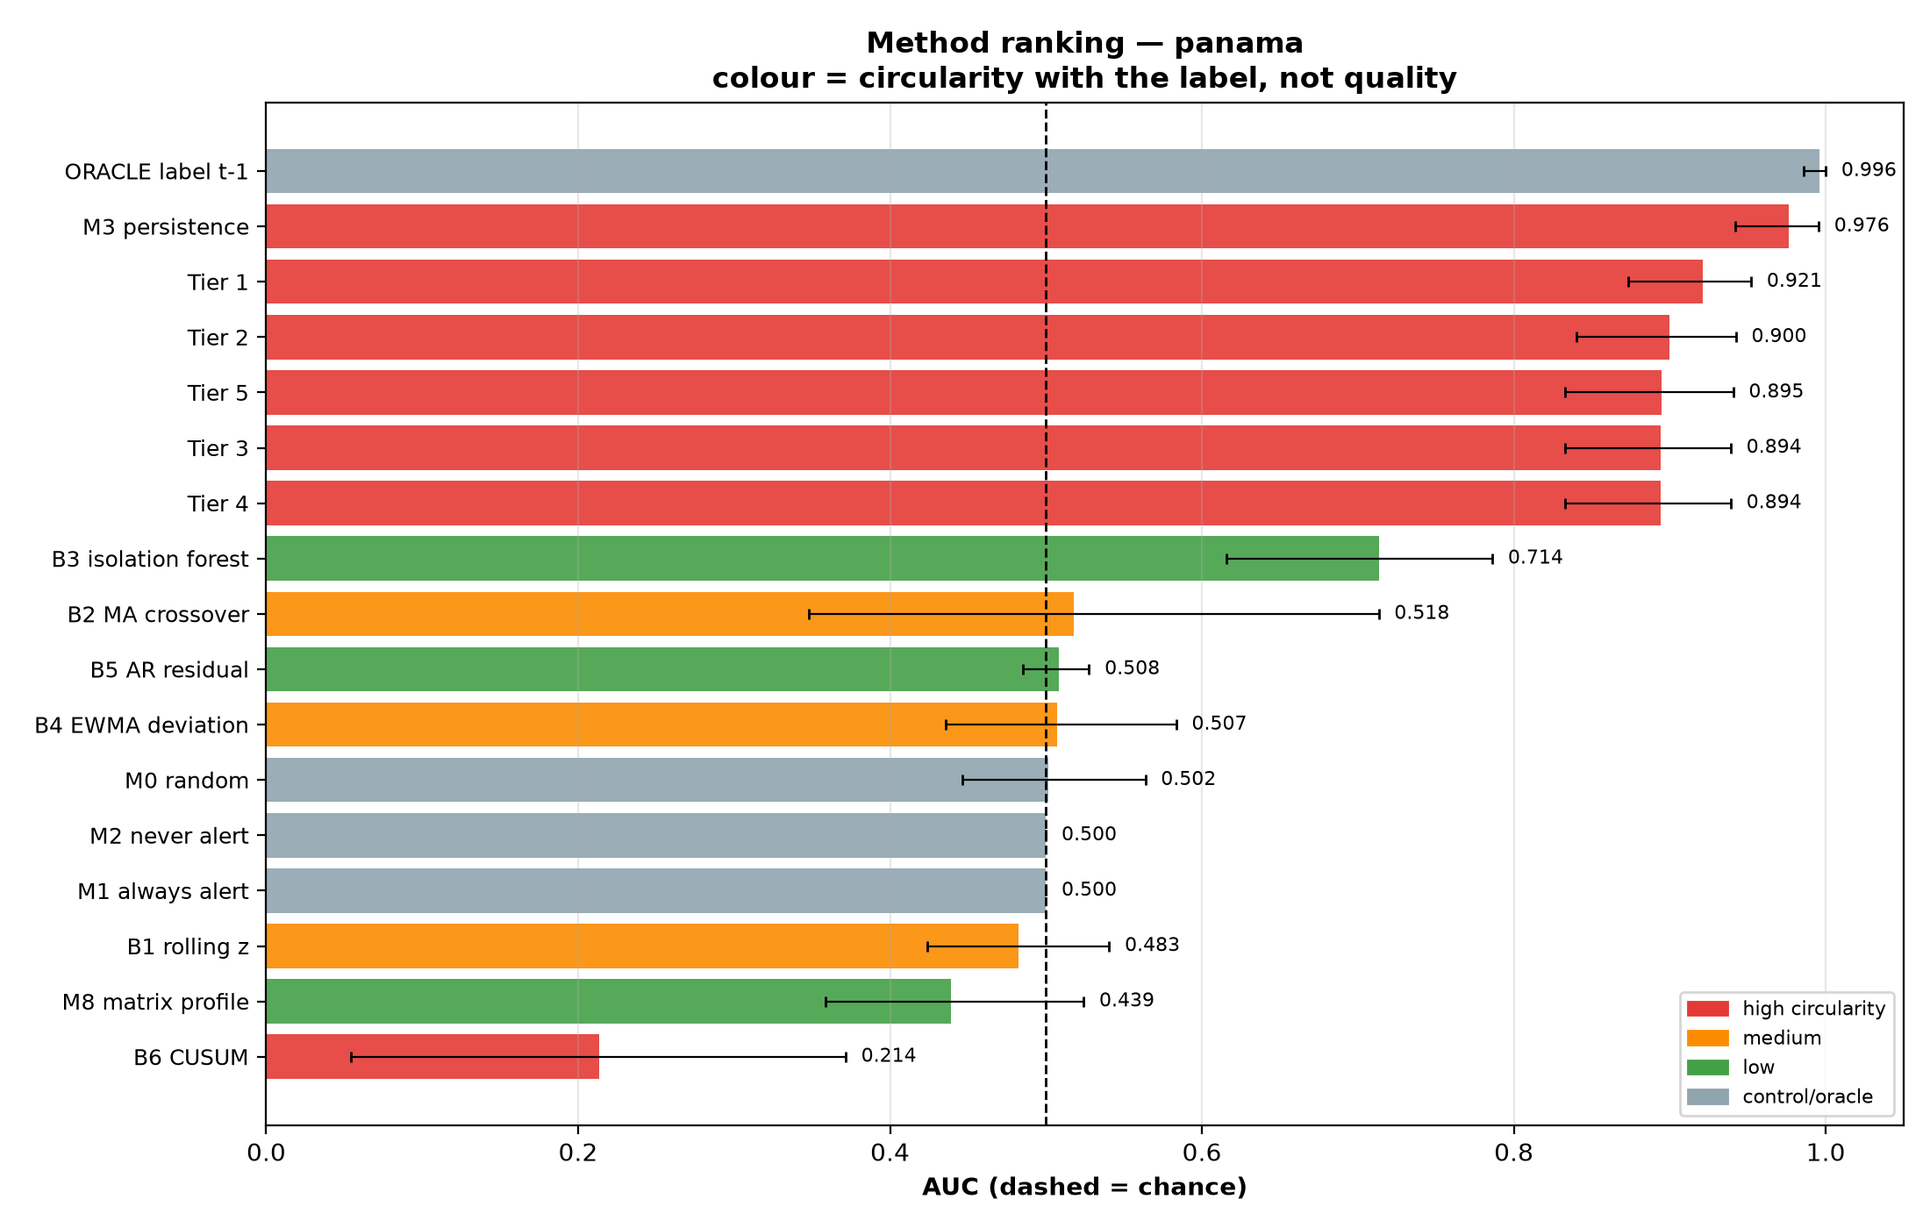
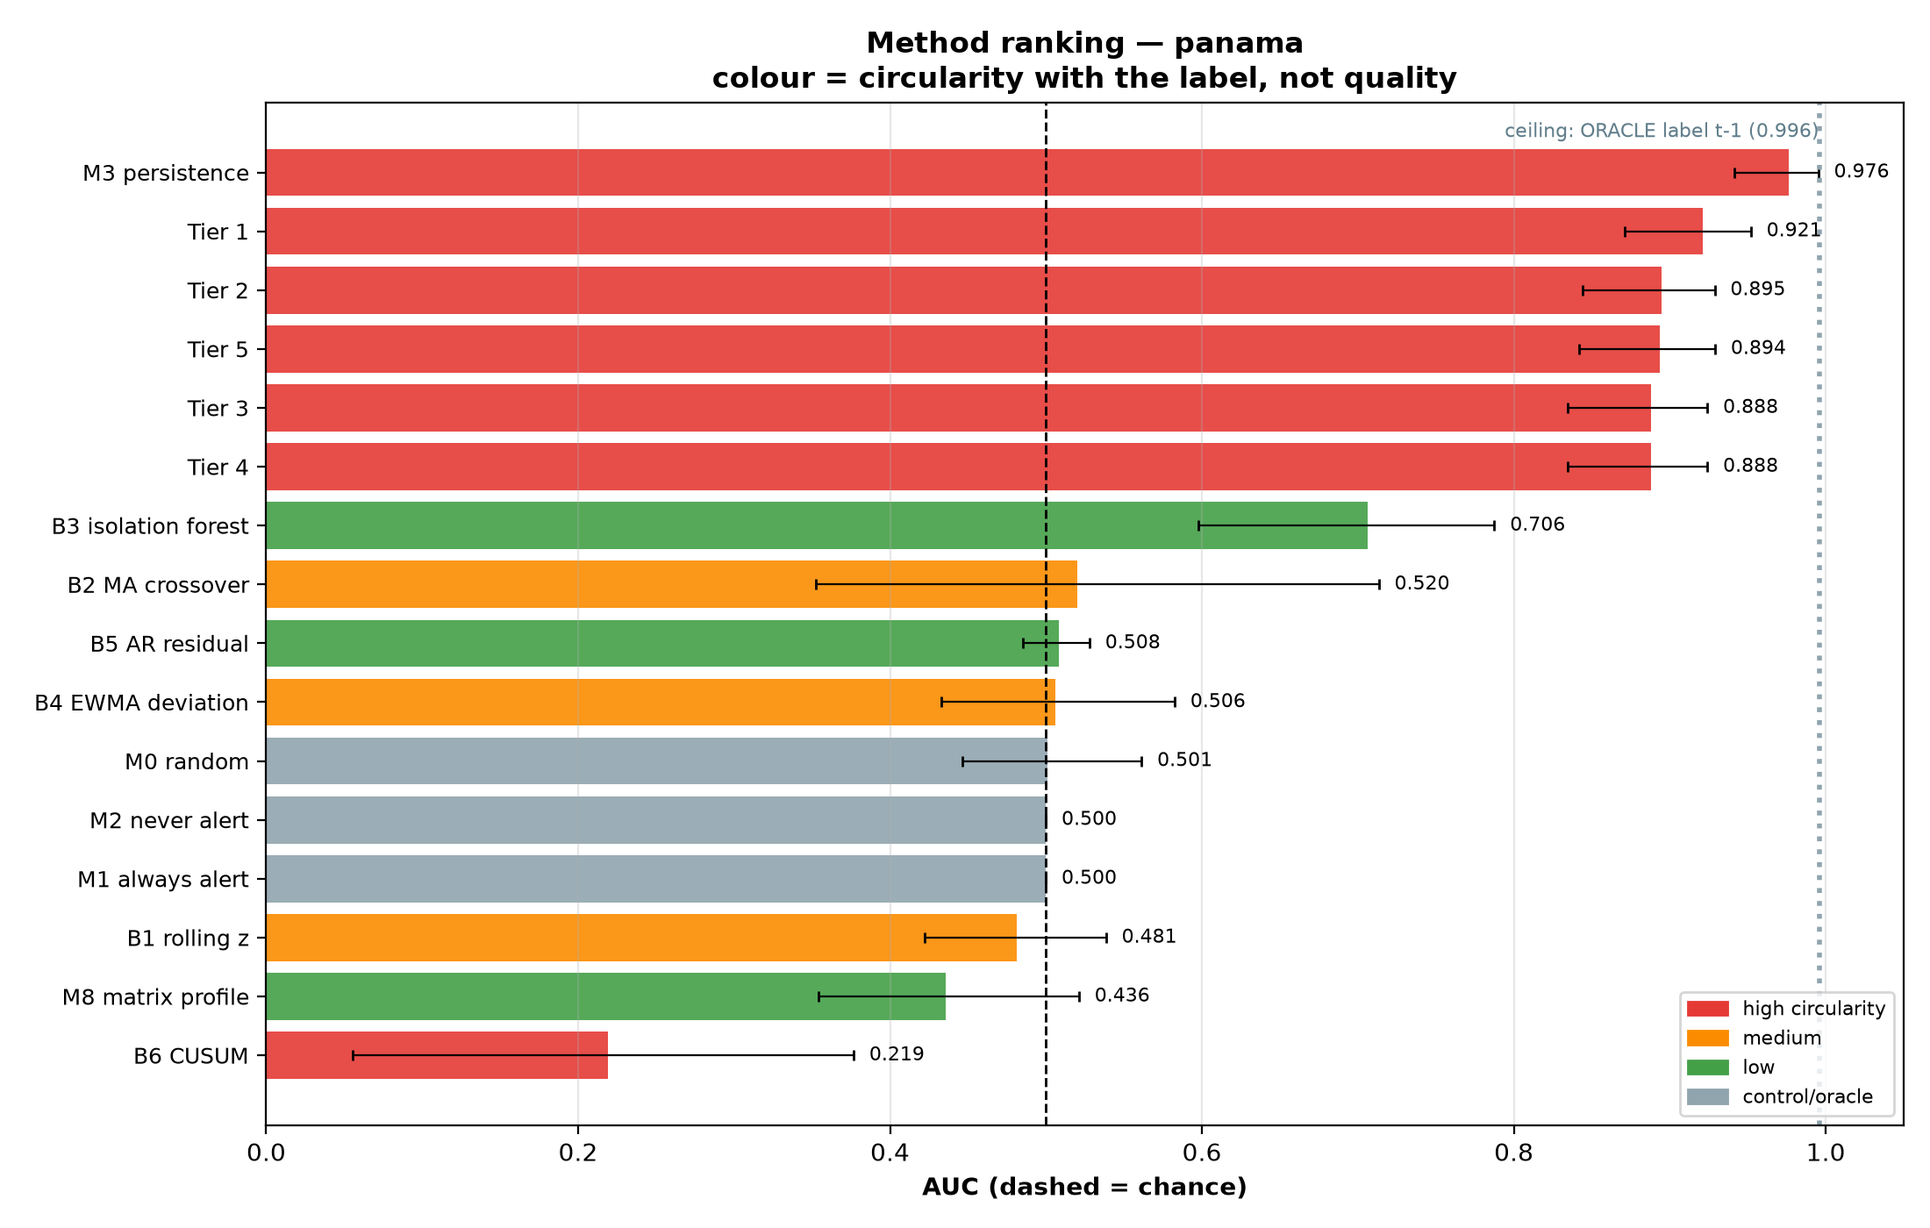
results: final rerun on rebuilt frames (masked outage, first-release FRED)
Frames rebuilt region by region with build_eval_dataset.py --force
(f5cac73). Manifest checks, all four regions:
- rows 2518 (Panama 2516), from 2019-01-01; no domain missing; 18 features
- positive days unchanged: Hormuz 159, Bab el-Mandeb 244, Panama 149,
  Malacca 0
- gap_fill: no cells filled (every domain arrives on a full daily grid)
- market_source: first-release dating; median lags Brent 6 d, PPI 42 d,
  TSI 72 d
- 20 masked news days (18 in test: 2025-06-14..07-01); news NaN exactly
  on those days, no other NaN
- news CSV sha256 unchanged (341249f2, c0bd0898, ba41a0f6, e437e2c9)
- frames now end 2025-11-22 (ACLED one-year delay moved a day); the test
  window still ends 2025-11-21 (settings.yaml)

Results (test 2023-07-01..2025-11-21, 857 scored days, 18 masked):
- Tier 1 is the best tier everywhere: Bab el-Mandeb 0.748 [0.675,
  0.802], Hormuz 0.556 [0.480, 0.624], Panama 0.921 [0.871, 0.952].
- Paired dAUC vs Tier 1: 11 of 12 tier comparisons clearly below 0,
  none above; Hormuz Tier 2 is inconclusive (-0.058 [-0.140, +0.002]).
- Split sensitivity: Panama and Hormuz Tier 1 stable within 0.01;
  Bab el-Mandeb Tier 1 0.732 / 0.748 / 0.471 at the three split dates.
- Ceiling (ORACLE): 0.997 / 0.987 / 0.996.
- Malacca mean alert rate: tiers 29%, real baselines 10%.
vs commit 2: tiers within 0.013 AUC; Hormuz B7 0.971 -> 0.939 and
B8 0.684 -> 0.648 (market features now publication-dated).

Outputs only, no code. The comparison was not run on real data before
[…]

Changed region(s): [[0.0309, 0.0921, 0.9891, 0.8907]]

diff --git a/eval/COMPARISON_REPORT.md b/eval/COMPARISON_REPORT.md
@@ -10,77 +10,86 @@ All figures are measured on a held-out window: 2023-07-01 to 2025-11-21, the sam
 
 | method | kind | AUC [95% CI] | F1 | alert rate |
 |---|---|---|---|---|
-| ORACLE label t-1 | oracle | 0.997 [0.991, 1.000] | 0.996 | 0.28 |
-| M3 persistence | unsupervised | 0.965 [0.919, 0.996] | 0.766 | 0.41 |
-| Tier 1 | multi-agent | 0.746 [0.673, 0.799] | 0.510 | 0.79 |
-| Tier 2 | multi-agent | 0.643 [0.562, 0.712] | 0.469 | 0.58 |
-| B2 MA crossover | unsupervised | 0.585 [0.488, 0.699] | 0.368 | 0.21 |
-| B3 isolation forest | unsupervised | 0.566 [0.451, 0.668] | 0.422 | 0.56 |
-| B4 EWMA deviation | unsupervised | 0.542 [0.503, 0.590] | 0.254 | 0.19 |
-| B1 rolling z | unsupervised | 0.524 [0.492, 0.557] | 0.132 | 0.10 |
-| B5 AR residual | unsupervised | 0.509 [0.493, 0.522] | 0.066 | 0.07 |
+| M3 persistence | unsupervised | 0.966 [0.920, 0.996] | 0.778 | 0.41 |
+| Tier 1 | multi-agent | 0.748 [0.675, 0.802] | 0.517 | 0.79 |
+| Tier 2 | multi-agent | 0.640 [0.529, 0.717] | 0.477 | 0.57 |
+| B2 MA crossover | unsupervised | 0.595 [0.499, 0.715] | 0.380 | 0.20 |
+| B3 isolation forest | unsupervised | 0.554 [0.450, 0.638] | 0.426 | 0.49 |
+| B4 EWMA deviation | unsupervised | 0.544 [0.505, 0.594] | 0.258 | 0.19 |
+| B1 rolling z | unsupervised | 0.525 [0.494, 0.557] | 0.133 | 0.10 |
+| B5 AR residual | unsupervised | 0.509 [0.491, 0.521] | 0.066 | 0.07 |
 | M2 never alert | control | 0.500 [0.500, 0.500] | 0.000 | 0.00 |
 | M1 always alert | control | 0.500 [0.500, 0.500] | 0.000 | 0.00 |
-| M0 random | control | 0.495 [0.444, 0.542] | 0.192 | 0.10 |
-| M8 matrix profile | unsupervised | 0.487 [0.424, 0.563] | 0.110 | 0.07 |
-| Tier 5 | multi-agent | 0.481 [0.374, 0.567] | 0.420 | 0.71 |
-| Tier 3 | multi-agent | 0.472 [0.370, 0.554] | 0.399 | 0.71 |
-| Tier 4 | multi-agent | 0.471 [0.369, 0.553] | 0.396 | 0.71 |
-| B6 CUSUM | unsupervised | 0.300 [0.106, 0.493] | 0.470 | 0.75 |
+| M0 random | control | 0.494 [0.444, 0.541] | 0.192 | 0.10 |
+| Tier 5 | multi-agent | 0.493 [0.373, 0.581] | 0.438 | 0.67 |
+| M8 matrix profile | unsupervised | 0.489 [0.426, 0.564] | 0.111 | 0.07 |
+| Tier 4 | multi-agent | 0.472 [0.355, 0.560] | 0.414 | 0.65 |
+| Tier 3 | multi-agent | 0.471 [0.354, 0.559] | 0.417 | 0.65 |
+| B6 CUSUM | unsupervised | 0.308 [0.113, 0.500] | 0.480 | 0.74 |
+| *ORACLE label t-1 (ceiling, not a method)* | oracle | 0.997 [0.991, 1.000] | 0.996 | 0.28 |
 
-Best baseline M3 persistence (0.965 [0.919, 0.996]) vs best tier Tier 1 (0.746 [0.673, 0.799]): **-0.219**. The intervals do not overlap: a clear difference. The oracle and the controls are reference rows, not candidates for best baseline.
+Ceiling: ORACLE label t-1 (0.997 [0.991, 1.000]) reads yesterday's true label, which no detector has at inference. It bounds what one-day-lagged knowledge of the answer would score.
+
+
+Best baseline M3 persistence (0.966 [0.920, 0.996]) vs best tier Tier 1 (0.748 [0.675, 0.802]): **-0.218**. The intervals do not overlap: a clear difference. The oracle and the controls are reference rows, not candidates for best baseline.
 
 
 ### hormuz
 
 | method | kind | AUC [95% CI] | F1 | alert rate |
 |---|---|---|---|---|
-| ORACLE label t-1 | oracle | 0.987 [0.969, 0.997] | 0.977 | 0.15 |
-| B7 logistic regression | supervised | 0.971 [0.934, 0.992] | 0.676 | 0.10 |
-| B6 CUSUM | unsupervised | 0.936 [0.866, 0.983] | 0.000 | 0.00 |
-| M3 persistence | unsupervised | 0.851 [0.789, 0.905] | 0.465 | 0.19 |
-| B8 random forest | supervised | 0.684 [0.583, 0.799] | 0.394 | 0.24 |
-| M8 matrix profile | unsupervised | 0.600 [0.510, 0.695] | 0.220 | 0.11 |
-| Tier 1 | multi-agent | 0.555 [0.478, 0.624] | 0.028 | 0.17 |
-| M0 random | control | 0.517 [0.463, 0.571] | 0.152 | 0.10 |
+| B7 logistic regression | supervised | 0.939 [0.877, 0.981] | 0.072 | 0.01 |
+| B6 CUSUM | unsupervised | 0.935 [0.865, 0.982] | 0.000 | 0.00 |
+| M3 persistence | unsupervised | 0.848 [0.785, 0.902] | 0.465 | 0.20 |
+| B8 random forest | supervised | 0.648 [0.534, 0.780] | 0.260 | 0.13 |
+| M8 matrix profile | unsupervised | 0.600 [0.509, 0.696] | 0.223 | 0.11 |
+| Tier 1 | multi-agent | 0.556 [0.480, 0.624] | 0.028 | 0.17 |
+| M0 random | control | 0.517 [0.462, 0.571] | 0.153 | 0.10 |
 | M1 always alert | control | 0.500 [0.500, 0.500] | 0.000 | 0.00 |
 | M2 never alert | control | 0.500 [0.500, 0.500] | 0.000 | 0.00 |
-| B5 AR residual | unsupervised | 0.491 [0.469, 0.512] | 0.076 | 0.12 |
-| B4 EWMA deviation | unsupervised | 0.490 [0.450, 0.532] | 0.090 | 0.13 |
-| Tier 2 | multi-agent | 0.485 [0.387, 0.575] | 0.068 | 0.15 |
-| B1 rolling z | unsupervised | 0.477 [0.434, 0.518] | 0.103 | 0.11 |
-| B2 MA crossover | unsupervised | 0.466 [0.378, 0.558] | 0.008 | 0.14 |
-| Tier 4 | multi-agent | 0.435 [0.314, 0.535] | 0.129 | 0.27 |
-| Tier 3 | multi-agent | 0.434 [0.313, 0.536] | 0.135 | 0.27 |
-| Tier 5 | multi-agent | 0.433 [0.314, 0.532] | 0.128 | 0.26 |
-| B3 isolation forest | unsupervised | 0.403 [0.307, 0.501] | 0.067 | 0.19 |
+| Tier 2 | multi-agent | 0.498 [0.372, 0.602] | 0.064 | 0.14 |
+| B5 AR residual | unsupervised | 0.492 [0.471, 0.513] | 0.077 | 0.12 |
+| B4 EWMA deviation | unsupervised | 0.490 [0.450, 0.533] | 0.090 | 0.13 |
+| B1 rolling z | unsupervised | 0.478 [0.435, 0.518] | 0.104 | 0.11 |
+| B2 MA crossover | unsupervised | 0.465 [0.374, 0.558] | 0.008 | 0.15 |
+| B3 isolation forest | unsupervised | 0.462 [0.333, 0.575] | 0.112 | 0.18 |
+| Tier 4 | multi-agent | 0.442 [0.303, 0.557] | 0.171 | 0.24 |
+| Tier 3 | multi-agent | 0.441 [0.302, 0.558] | 0.169 | 0.25 |
+| Tier 5 | multi-agent | 0.434 [0.298, 0.548] | 0.140 | 0.23 |
+| *ORACLE label t-1 (ceiling, not a method)* | oracle | 0.987 [0.969, 0.997] | 0.977 | 0.16 |
 
-Best baseline B7 logistic regression (0.971 [0.934, 0.992]) vs best tier Tier 1 (0.555 [0.478, 0.624]): **-0.415**. The intervals do not overlap: a clear difference. The oracle and the controls are reference rows, not candidates for best baseline.
+Ceiling: ORACLE label t-1 (0.987 [0.969, 0.997]) reads yesterday's true label, which no detector has at inference. It bounds what one-day-lagged knowledge of the answer would score.
+
+
+Best baseline B7 logistic regression (0.939 [0.877, 0.981]) vs best tier Tier 1 (0.556 [0.480, 0.624]): **-0.383**. The intervals do not overlap: a clear difference. The oracle and the controls are reference rows, not candidates for best baseline.
 
 
 ### panama
 
 | method | kind | AUC [95% CI] | F1 | alert rate |
 |---|---|---|---|---|
-| ORACLE label t-1 | oracle | 0.996 [0.986, 1.000] | 0.993 | 0.17 |
-| M3 persistence | unsupervised | 0.976 [0.942, 0.995] | 0.789 | 0.25 |
-| Tier 1 | multi-agent | 0.921 [0.873, 0.952] | 0.702 | 0.26 |
-| Tier 2 | multi-agent | 0.900 [0.840, 0.942] | 0.615 | 0.22 |
-| Tier 5 | multi-agent | 0.895 [0.833, 0.941] | 0.607 | 0.23 |
-| Tier 4 | multi-agent | 0.894 [0.833, 0.939] | 0.603 | 0.21 |
-| Tier 3 | multi-agent | 0.894 [0.833, 0.939] | 0.603 | 0.21 |
-| B3 isolation forest | unsupervised | 0.714 [0.616, 0.786] | 0.265 | 0.20 |
-| B2 MA crossover | unsupervised | 0.518 [0.348, 0.713] | 0.189 | 0.11 |
-| B5 AR residual | unsupervised | 0.508 [0.485, 0.528] | 0.068 | 0.10 |
-| B4 EWMA deviation | unsupervised | 0.507 [0.436, 0.583] | 0.142 | 0.12 |
-| M0 random | control | 0.502 [0.446, 0.564] | 0.126 | 0.10 |
-| M1 always alert | control | 0.500 [0.500, 0.500] | 0.000 | 0.00 |
+| M3 persistence | unsupervised | 0.976 [0.941, 0.995] | 0.800 | 0.25 |
+| Tier 1 | multi-agent | 0.921 [0.871, 0.952] | 0.710 | 0.26 |
+| Tier 2 | multi-agent | 0.895 [0.844, 0.929] | 0.598 | 0.21 |
+| Tier 5 | multi-agent | 0.894 [0.842, 0.929] | 0.594 | 0.22 |
+| Tier 3 | multi-agent | 0.888 [0.834, 0.924] | 0.576 | 0.21 |
+| Tier 4 | multi-agent | 0.888 [0.834, 0.924] | 0.576 | 0.21 |
+| B3 isolation forest | unsupervised | 0.706 [0.598, 0.788] | 0.258 | 0.21 |
+| B2 MA crossover | unsupervised | 0.520 [0.352, 0.713] | 0.189 | 0.11 |
+| B5 AR residual | unsupervised | 0.508 [0.485, 0.528] | 0.069 | 0.10 |
+| B4 EWMA deviation | unsupervised | 0.506 [0.433, 0.583] | 0.145 | 0.12 |
+| M0 random | control | 0.501 [0.446, 0.561] | 0.126 | 0.10 |
 | M2 never alert | control | 0.500 [0.500, 0.500] | 0.000 | 0.00 |
-| B1 rolling z | unsupervised | 0.483 [0.424, 0.541] | 0.146 | 0.10 |
-| M8 matrix profile | unsupervised | 0.439 [0.359, 0.524] | 0.027 | 0.09 |
-| B6 CUSUM | unsupervised | 0.214 [0.054, 0.372] | 0.338 | 0.84 |
+| M1 always alert | control | 0.500 [0.500, 0.500] | 0.000 | 0.00 |
+| B1 rolling z | unsupervised | 0.481 [0.422, 0.539] | 0.147 | 0.10 |
+| M8 matrix profile | unsupervised | 0.436 [0.354, 0.521] | 0.027 | 0.09 |
+| B6 CUSUM | unsupervised | 0.219 [0.055, 0.377] | 0.345 | 0.84 |
+| *ORACLE label t-1 (ceiling, not a method)* | oracle | 0.996 [0.986, 1.000] | 0.993 | 0.17 |
 
-Best baseline M3 persistence (0.976 [0.942, 0.995]) vs best tier Tier 1 (0.921 [0.873, 0.952]): **-0.055**. The intervals overlap, which on its own is inconclusive: it neither shows nor rules out a difference. The oracle and the controls are reference rows, not candidates for best baseline.
+Ceiling: ORACLE label t-1 (0.996 [0.986, 1.000]) reads yesterday's true label, which no detector has at inference. It bounds what one-day-lagged knowledge of the answer would score.
+
+
+Best baseline M3 persistence (0.976 [0.941, 0.995]) vs best tier Tier 1 (0.921 [0.871, 0.952]): **-0.055**. The intervals overlap, which on its own is inconclusive: it neither shows nor rules out a difference. The oracle and the controls are reference rows, not candidates for best baseline.
 
 
 ## What the numbers show
@@ -88,33 +97,67 @@ Best baseline M3 persistence (0.976 [0.942, 0.995]) vs best tier Tier 1 (0.921 [
 
 ### Does adding agents improve AUC?
 
-- **bab_el_mandeb**: 0.746 -> 0.643 -> 0.472 -> 0.471 -> 0.481  (best: Tier 1)
-- **hormuz**: 0.555 -> 0.485 -> 0.434 -> 0.435 -> 0.433  (best: Tier 1)
-- **panama**: 0.921 -> 0.900 -> 0.894 -> 0.894 -> 0.895  (best: Tier 1)
+- **bab_el_mandeb**: 0.748 -> 0.640 -> 0.471 -> 0.472 -> 0.493  (best: Tier 1)
+- **hormuz**: 0.556 -> 0.498 -> 0.441 -> 0.442 -> 0.434  (best: Tier 1)
+- **panama**: 0.921 -> 0.895 -> 0.888 -> 0.888 -> 0.894  (best: Tier 1)
 
-In every region the peak is Tier 1 or Tier 2, and adding the geopolitical agent at Tier 3 lowers AUC each time. These are point estimates: consecutive tiers' intervals are clearly apart in 1 of 12 steps, and overlap alone is inconclusive. This does not support the claim that each agent adds value.
+In every region the peak is Tier 1 or Tier 2, and adding the geopolitical agent at Tier 3 lowers AUC each time. These are point estimates. Tested against Tier 1 with the paired difference on the same resampled blocks, a tier is clearly below Tier 1 in 11 of 12 comparisons, clearly above in 0 of 12, and inconclusive (interval includes 0) in 1 of 12. This does not support the claim that each agent adds value.
+
+
+#### Paired ΔAUC against Tier 1 (Tier k - Tier 1)
+
+Bold: the paired interval excludes 0.
+
+| region | Tier 2 | Tier 3 | Tier 4 | Tier 5 |
+|---|---|---|---|---|
+| bab_el_mandeb | **-0.108 [-0.189, -0.044]** | **-0.277 [-0.394, -0.178]** | **-0.276 [-0.392, -0.178]** | **-0.256 [-0.375, -0.153]** |
+| hormuz | -0.058 [-0.140, +0.002] | **-0.115 [-0.250, -0.026]** | **-0.114 [-0.248, -0.025]** | **-0.123 [-0.255, -0.035]** |
+| panama | **-0.027 [-0.052, -0.001]** | **-0.033 [-0.057, -0.008]** | **-0.033 [-0.057, -0.008]** | **-0.027 [-0.054, -0.002]** |
+
+### Split-date sensitivity
+
+Tier 1 and Tier 4 re-scored with the split moved; the end date, the masked days and the training-window threshold rule are unchanged. The main tables use the settings.yaml split.
+
+| region | split | scored test days (positives) | Tier 1 AUC | Tier 4 AUC | Tier 4 - Tier 1 (paired) |
+|---|---|---|---|---|---|
+| bab_el_mandeb | 2023-01-01 | 1037 (244) | 0.732 [0.670, 0.782] | 0.467 [0.362, 0.552] | **-0.266 [-0.382, -0.160]** |
+| bab_el_mandeb | 2023-07-01 | 857 (244) | 0.748 [0.675, 0.802] | 0.472 [0.355, 0.560] | **-0.276 [-0.392, -0.178]** |
+| bab_el_mandeb | 2024-01-01 | 673 (244) | 0.471 [0.418, 0.526] | 0.364 [0.241, 0.458] | **-0.107 [-0.243, -0.016]** |
+| hormuz | 2023-01-01 | 1037 (133) | 0.553 [0.476, 0.608] | 0.453 [0.321, 0.560] | -0.100 [-0.221, +0.001] |
+| hormuz | 2023-07-01 | 857 (133) | 0.556 [0.480, 0.624] | 0.442 [0.303, 0.557] | **-0.114 [-0.248, -0.025]** |
+| hormuz | 2024-01-01 | 673 (116) | 0.547 [0.353, 0.687] | 0.464 [0.275, 0.623] | -0.083 [-0.257, +0.017] |
+| malacca | 2023-01-01 | 1037 (0) | — | — | — |
+| malacca | 2023-07-01 | 857 (0) | — | — | — |
+| malacca | 2024-01-01 | 673 (0) | — | — | — |
+| panama | 2023-01-01 | 1036 (149) | 0.927 [0.883, 0.957] | 0.888 [0.836, 0.924] | **-0.039 [-0.066, -0.014]** |
+| panama | 2023-07-01 | 856 (149) | 0.921 [0.871, 0.952] | 0.888 [0.834, 0.924] | **-0.033 [-0.057, -0.008]** |
+| panama | 2024-01-01 | 672 (110) | 0.926 [0.868, 0.958] | 0.872 [0.803, 0.923] | **-0.054 [-0.082, -0.013]** |
+
+bab_el_mandeb: Tier 1 AUC ranges 0.471-0.748; hormuz: Tier 1 AUC ranges 0.547-0.556; panama: Tier 1 AUC ranges 0.921-0.927.
 
 
 ### Tiers scoring below 0.5
 
-Below 0.5 but indistinguishable from chance (the interval includes 0.5): bab_el_mandeb Tier 3 (0.472 [0.370, 0.554]), bab_el_mandeb Tier 4 (0.471 [0.369, 0.553]), bab_el_mandeb Tier 5 (0.481 [0.374, 0.567]), hormuz Tier 2 (0.485 [0.387, 0.575]), hormuz Tier 3 (0.434 [0.313, 0.536]), hormuz Tier 4 (0.435 [0.314, 0.535]), hormuz Tier 5 (0.433 [0.314, 0.532]).
+Below 0.5 but indistinguishable from chance (the interval includes 0.5): bab_el_mandeb Tier 3 (0.471 [0.354, 0.559]), bab_el_mandeb Tier 4 (0.472 [0.355, 0.560]), bab_el_mandeb Tier 5 (0.493 [0.373, 0.581]), hormuz Tier 2 (0.498 [0.372, 0.602]), hormuz Tier 3 (0.441 [0.302, 0.558]), hormuz Tier 4 (0.442 [0.303, 0.557]), hormuz Tier 5 (0.434 [0.298, 0.548]).
 
 
 ### Where simple baselines score above the ensemble
 
-- **bab_el_mandeb**: M3 persistence at 0.965 is above the best tier at 0.746. The intervals do not overlap: a clear difference.
-- **hormuz**: B7 logistic regression at 0.971 is above the best tier at 0.555. The intervals do not overlap: a clear difference.
+- **bab_el_mandeb**: M3 persistence at 0.966 is above the best tier at 0.748. The intervals do not overlap: a clear difference.
+- **hormuz**: B7 logistic regression at 0.939 is above the best tier at 0.556. The intervals do not overlap: a clear difference.
 - **panama**: M3 persistence at 0.976 is above the best tier at 0.921. The intervals overlap, which on its own is inconclusive: it neither shows nor rules out a difference.
 
 ### False-positive harness (Malacca)
 
-Malacca has zero labelled disruptions in the evaluated data, so every alert is a false alarm. Mean alert rate: **tiers 31%**, **baselines 10%** (detection methods only; the oracle and controls are left out). The multi-agent tiers are the noisier of the two.
+Malacca has zero labelled disruptions in the evaluated data, so every alert is a false alarm. Mean alert rate: **tiers 29%**, **baselines 10%** (detection methods only; the oracle and controls are left out). The multi-agent tiers are the noisier of the two.
 
 
 ## Limits of this evaluation
 
 - **Supervised baselines are untrainable in 3 of 4 regions.** Most labelled disruptions are recent (Houthi 2024, Gatun drought 2023-24), so the temporal split leaves no positives in training there. Those rows are reported as not-applicable rather than as a 0.5 score, which would have read as 'no better than chance'.
-- **Intervals are 95% moving-block bootstrap CIs** (30-day blocks, 1,000 resamples) on the test window, with the training threshold held fixed. Every method in a region gets the same resamples, so intervals are paired. Non-overlapping intervals show a clear difference; overlapping ones are inconclusive on their own. AUC and F1 intervals use only resamples that contain both classes: at least 998 of 1,000 for every scored method. They cover test-sample uncertainty only, not the choice of split or label, and they are conditional on the few disruption episodes in each test window, so they do not measure skill on a new kind of disruption.
+- **Intervals are 95% moving-block bootstrap CIs** (30-day blocks, 1,000 resamples) on the test window, with the training threshold held fixed. Every method in a region gets the same resamples, so intervals are paired. Non-overlapping intervals show a clear difference; overlapping ones are inconclusive on their own. Tier differences use the paired interval of the difference (the same resampled blocks for both tiers); a paired interval that excludes 0 is a clear difference. AUC and F1 intervals use only resamples that contain both classes: at least 998 of 1,000 for every scored method. They cover test-sample uncertainty only, not the choice of split or label, and they are conditional on the few disruption episodes in each test window, so they do not measure skill on a new kind of disruption.
+- **Days GDELT never published are masked:** 18 test days in every region are left out of every method's score (point estimates and intervals) and out of every training threshold. They are not filled.
 - **Malacca cannot be evaluated for detection** — no positives at all.
-- **News features come from GDELT 1.0 event exports** (corridor box filter v2) in every region; volume is articles per 100k GDELT events that day.
+- **News features come from GDELT 1.0 event exports** (corridor box filter v2) in every region; volume is articles per 100k GDELT events that day. The news agent's tone means skip days without articles instead of counting them as neutral tone.
+- **Values enter on the day they were known, where the source says.** FRED market series are stamped on their first-release date (ALFRED) and carried forward until the next release; gaps in other domains are forward-filled, never interpolated. Shipping (PortWatch) and conflict (ACLED) values stay on their event dates: their roughly weekly publication lag is not modelled. A few scaling constants (the freight index's rebase, the trade-volume and conflict-intensity scales) are still taken over the whole sample.
 - **The label is one definition among several.** The level-shift rule recovers two documented events, but agents built against a different definition of disruption will score poorly whatever their merit.
